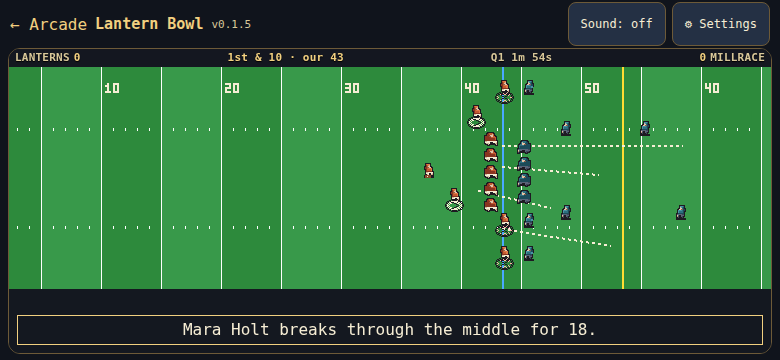
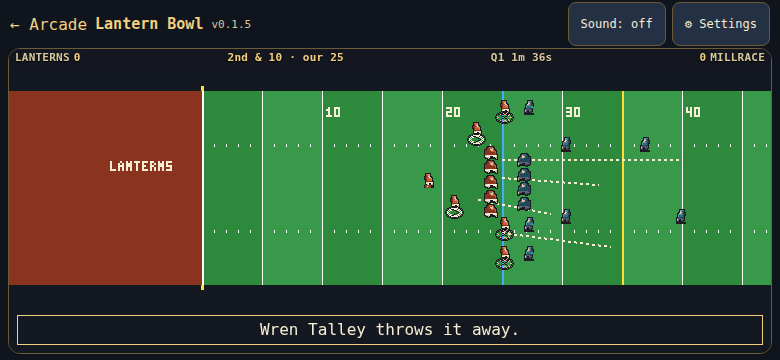
The hint sits above the grass, so the top receiver and the yard numbers stay visible on a sideways phone.

diff --git a/tests/lantern-bowl.html b/tests/lantern-bowl.html
@@ -119,7 +119,7 @@ document.querySelector('#run').onclick = async () => {
     const wideField = V.layoutFor(844, 390), desktopField = V.layoutFor(1024, 594);
     check('a phone held upright waits for landscape', V.phoneTurn(390, 844) === true && V.phoneTurn(360, 780) === true && V.phoneTurn(844, 390) === false && V.phoneTurn(780, 360) === false && V.phoneTurn(1024, 594) === false);
     check('the field stays side-on, with a thin score strip', !!wideField && !wideField.vertical && wideField.w > wideField.h && wideField.top >= 16 && wideField.top <= 20 && !!desktopField && !desktopField.vertical && desktopField.top >= 16 && desktopField.top <= 20);
-    const fittedPhone = V.fitLayout(844, 390), fittedNarrow = V.fitLayout(780, 360), fittedDesk = V.fitLayout(1024, 594);
+    const fittedPhone = V.fitLayout(844, 390), fittedNarrow = V.fitLayout(780, 360), fittedDesk = V.fitLayout(1024, 594), fittedSe = V.fitLayout(667, 375);
     const fills = (fitted, boxW, boxH) => !!fitted && fitted.scale === Math.floor(fitted.scale) && fitted.scale >= 1 && !fitted.vertical && fitted.w * fitted.scale <= boxW && fitted.h * fitted.scale <= boxH && fitted.w * fitted.scale >= boxW - fitted.scale && fitted.h * fitted.scale >= boxH - fitted.scale;
     check('the picture scales by a whole number and fills the box', fills(fittedPhone, 844, 390) && fills(fittedNarrow, 780, 360) && fills(fittedDesk, 1024, 594));
     const aboveCards = (fitted) => {
@@ -127,7 +127,14 @@ document.querySelector('#run').onclick = async () => {
       const feet = fitted.top + fitted.fieldH * (0.5 + 20 / fitted.widthY) + 2;
       return fitted.top + fitted.fieldH <= fitted.h - reserve + 0.5 && feet <= fitted.h - reserve;
     };
-    check('the grass and the widest receiver stay above the bottom cards', aboveCards(fittedPhone) && aboveCards(fittedNarrow) && aboveCards(fittedDesk));
+    check('the grass and the widest receiver stay above the bottom cards', aboveCards(fittedPhone) && aboveCards(fittedNarrow) && aboveCards(fittedDesk) && aboveCards(fittedSe));
+    const underHint = (fitted) => {
+      const band = 42 / fitted.scale;
+      const numbers = fitted.top + 16;
+      const spriteTop = fitted.top + fitted.fieldH * (0.5 - 20 / fitted.widthY) - 16;
+      return fitted.top + 0.01 >= band && numbers >= band && spriteTop >= band;
+    };
+    check('the top receiver and the yard numbers stay below the hint', underHint(fittedPhone) && underHint(fittedNarrow) && underHint(fittedSe) && underHint(fittedDesk));
     const openMark = V.opennessMark('open'), windowMark = V.opennessMark('window'), coveredMark = V.opennessMark('covered');
     check('openness marks differ by shape, with a light open ring', openMark.shape !== windowMark.shape && windowMark.shape !== coveredMark.shape && openMark.color === '#f6edd4' && openMark.outline === '#1e1a22' && coveredMark.shape === 'dotted');
     let openCatches = 0, tightPicks = 0, tightDrops = 0, trials = 1600, rollState = 5;
@@ -769,6 +776,22 @@ document.querySelector('#run').onclick = async () => {
     const passHint = d2.querySelector('#hint').textContent || '';
     check('a picked pass says to pull back to throw', passHint.indexOf('Pull back to throw') >= 0);
     check("a repeated play shows they're reading it", passHint.indexOf("THEY'RE READING IT") >= 0);
+    function topPairClears(doc, win) {
+      const hint = doc.querySelector('#hint');
+      const pitch = doc.querySelector('.pitch').getBoundingClientRect();
+      const band = hint.getBoundingClientRect();
+      const layout = win.LanternView.fitLayout(pitch.width, pitch.height);
+      const numbers = pitch.top + (layout.top + 16) * layout.scale;
+      const spriteTop = pitch.top + (layout.top + layout.fieldH * (0.5 - 20 / layout.widthY) - 16) * layout.scale;
+      return !hint.hidden && band.height >= 20 && spriteTop >= band.bottom - 0.5 && numbers >= band.bottom - 0.5;
+    }
+    for (const [aimW, aimH] of [[780, 360], [844, 390], [667, 375]]) {
+      frame.style.width = aimW + 'px'; frame.style.height = aimH + 'px';
+      await wait();
+      check(aimW + '×' + aimH + ' aiming hint stays off the top receiver and the yard numbers', topPairClears(d2, w2));
+    }
+    frame.style.width = '844px'; frame.style.height = '390px';
+    await wait();
     const touchCanvas = d2.querySelector('#field');
     const touchPoint = new w2.Touch({ identifier: 3, target: touchCanvas, clientX: 140, clientY: 220, pageX: 140, pageY: 220, screenX: 140, screenY: 220, radiusX: 1, radiusY: 1, rotationAngle: 0, force: 1 });
     touchCanvas.dispatchEvent(new w2.TouchEvent('touchstart', { touches: [touchPoint], changedTouches: [touchPoint], bubbles: true, cancelable: true }));
@@ -903,7 +926,13 @@ document.querySelector('#run').onclick = async () => {
     const defenceLayout = w2.LanternView.fitLayout(defencePitch.width, defencePitch.height);
     const defenceFeet = defencePitch.top + (defenceLayout.top + defenceLayout.fieldH * (0.5 + 20 / defenceLayout.widthY) + 2) * defenceLayout.scale;
     const defenceLabels = Array.from(d2.querySelectorAll('[data-defence]'));
-    check('at 780×360 the defence cards stay off the bottom receivers', defenceBtn.top + 1 >= defenceFeet && defenceLabels.every(b => { const s = b.querySelector('span'); return parseFloat(w2.getComputedStyle(b).fontSize) >= 16 && s && s.getClientRects().length === 1 && Math.round(b.getBoundingClientRect().height) === 48; }));
+    check('at 780×360 the defence cards stay off the bottom receivers', defenceBtn.top - defenceFeet >= 34 && defenceLabels.every(b => { const s = b.querySelector('span'); return parseFloat(w2.getComputedStyle(b).fontSize) >= 16 && s && s.getClientRects().length === 1 && Math.round(b.getBoundingClientRect().height) === 48; }));
+    check('at 780×360 the defence hint stays off the top receiver and the yard numbers', topPairClears(d2, w2));
+    for (const [defW, defH] of [[844, 390], [667, 375]]) {
+      frame.style.width = defW + 'px'; frame.style.height = defH + 'px';
+      await wait();
+      check(defW + '×' + defH + ' defence hint stays off the top receiver and the yard numbers', topPairClears(d2, w2));
+    }
     frame.style.width = '844px'; frame.style.height = '390px';
     await wait();
     d2.querySelector('[data-defence="balanced"]').click();

diff --git a/games/lantern-bowl/view.js b/games/lantern-bowl/view.js
@@ -135,13 +135,20 @@
     if (!(scale >= 1)) scale = 1;
     var fillW = Math.max(8, Math.floor(w / scale));
     var fillH = Math.max(8, Math.floor(h / scale));
-    /* Play cards and the result line share the bottom edge. The grass stops
-       above that strip, so the widest receiver's feet stay off the cards. */
+    /* The score strip is 18px and the hint under it is 24px. The grass starts
+       below both, so the top receiver and the yard numbers stay visible.
+       The bottom strip stays clear for the cards. The extra there keeps the
+       lowest receiver from dropping when the top reserve grows. */
+    var top = Math.max(base.top, Math.ceil(42 / scale));
     var dockPx = Math.ceil(64 / scale);
+    var grown = Math.max(0, top - base.top);
+    var fromTop = 0.5 - 20 / base.widthY;
+    var fromBottom = 0.5 + 20 / base.widthY;
+    dockPx += Math.ceil(grown * fromTop / fromBottom);
     return {
-      w: fillW, h: fillH, yard: base.yard, top: base.top, widthY: base.widthY,
+      w: fillW, h: fillH, yard: base.yard, top: top, widthY: base.widthY,
       lead: base.lead, scale: scale,
-      fieldH: Math.max(16, fillH - base.top - dockPx),
+      fieldH: Math.max(16, fillH - top - dockPx),
       anchor: Math.round(fillW * 0.28)
     };
   }

diff --git a/games/lantern-bowl/README.md b/games/lantern-bowl/README.md
@@ -10,7 +10,7 @@ v0.1.2. Millrace remembers the three plays you call most, and sits on a play you
 
 v0.1.1. One football game at Lamplight Field. You are the Brackenport Lanterns, Millrace is the other side. Four quarters of two minutes. You call the play and play the snap. Their drives play out on the field.
 
-The field fills the screen. The score, the down and the clock sit in a strip about 18 pixels tall. Before the snap, three plays sit in a short row along the bottom, with the route drawn on the card and in chalk on the grass, and a ring under each receiver. Inside and Outside are labelled as runs. On fourth down, a punt is one of those three. When the goal is within 38 yards, a field goal is there too, and it is harder from farther away. During a play there are no action buttons. After the whistle one result line sits on the bottom edge, clear of the players, and the next play cards wait until that line has been shown. They then take that same bottom edge. Before Millrace's drive you pick Blitz, Balanced or Prevent. Their drive then plays as a short highlight, and one line says how it ended. The clock is slower than the snap itself, so a game holds about 8 to 12 of your drives. A short completion does not always gain the same yards.
+The field fills the screen. The score, the down and the clock sit in a strip about 18 pixels tall. The hint under that strip stays above the grass, so the top receiver and the yard numbers remain visible. Before the snap, three plays sit in a short row along the bottom, with the route drawn on the card and in chalk on the grass, and a ring under each receiver. Inside and Outside are labelled as runs. On fourth down, a punt is one of those three. When the goal is within 38 yards, a field goal is there too, and it is harder from farther away. During a play there are no action buttons. After the whistle one result line sits on the bottom edge, clear of the players, and the next play cards wait until that line has been shown. They then take that same bottom edge. Before Millrace's drive you pick Blitz, Balanced or Prevent. Their drive then plays as a short highlight, and one line says how it ended. The clock is slower than the snap itself, so a game holds about 8 to 12 of your drives. A short completion does not always gain the same yards.
 
 Drag anywhere on the field and let go to throw. Downfield is the opposite of the drag. How far you pull sets the power, and a full throw takes a long drag that fits the screen. The power meter fills across that whole drag, so a short pull stays short. The dotted landing arc shows where it will come down. A second finger, a right-click, or Shift switches a lob and a bullet. A lob hangs longer. A bullet gets there sooner. The ball lands where you aimed. It does not lead the receiver for you, and it does not steer itself onto a receiver. While you drag, the receiver nearest that spot is highlighted. A catch still needs the ball to arrive near that receiver, a little wider than before, and still a miss if the drag is off. Aim error grows with the distance and with pressure. A defender within about 2.6 yards contests the catch. A breakup is much more common than a pick, and a pick happens only when that defender is closer to the ball than the receiver. A miss says what happened: overthrown, underthrown, wide left, wide right, broken up, or picked. Letting go past the sideline throws it away. With the ball, swipe or hold to steer and juke. Tap to dive. A second finger sprints and spends wind. The result is a short line that does not cover the play, and it does not read out rating numbers. Green lanes are blocked open. Red lanes are not. The ring around the quarterback shrinks as the rush arrives. Ratings still run from 0 to 100 inside the game. About 50 is an ordinary player. A careless game loses. An attentive one wins. One snap never takes more than 14 seconds. Millrace's drive is a short highlight on the field after you pick a defence, and one line says how it ended. If the score is level at the gun, overtime gives each side one turn from the 25. A lead after both turns wins. If it is still level, they play another pair of turns. Play again returns to the kickoff.
 
